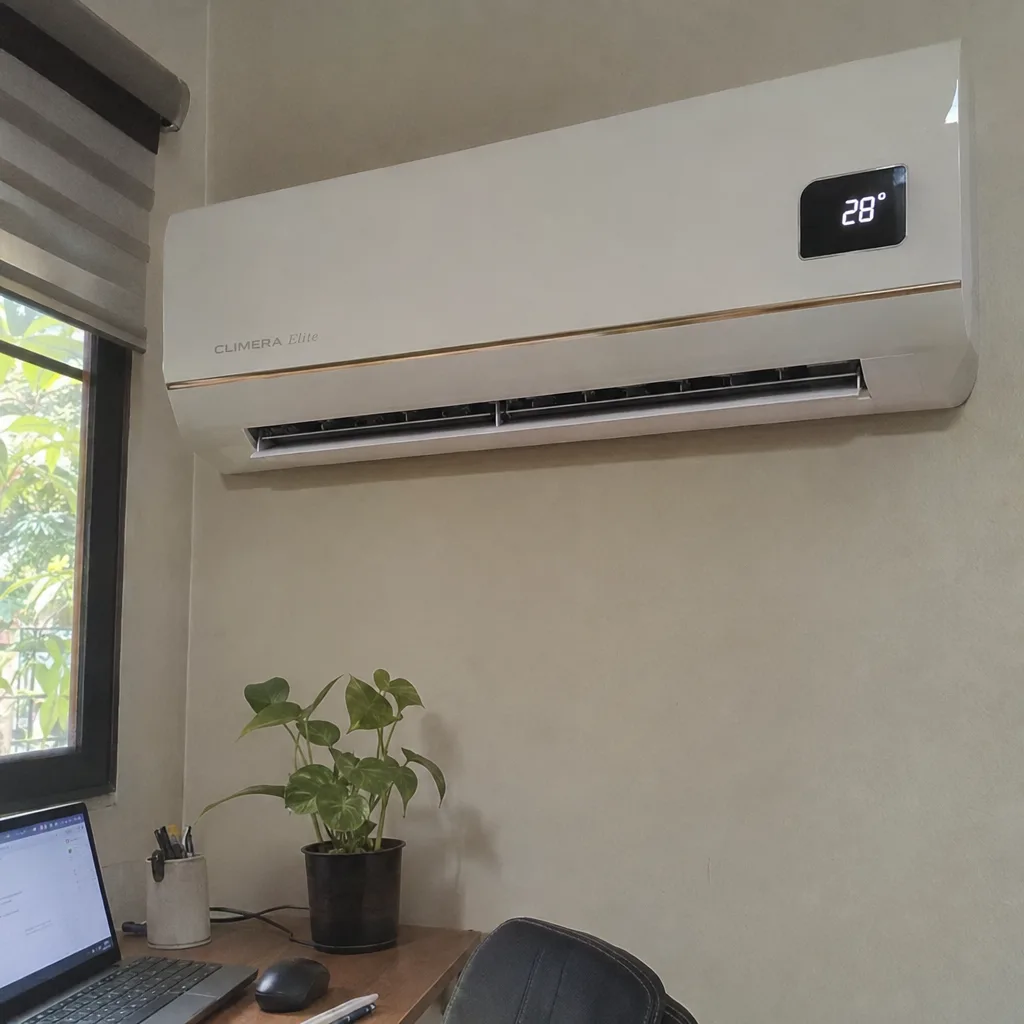
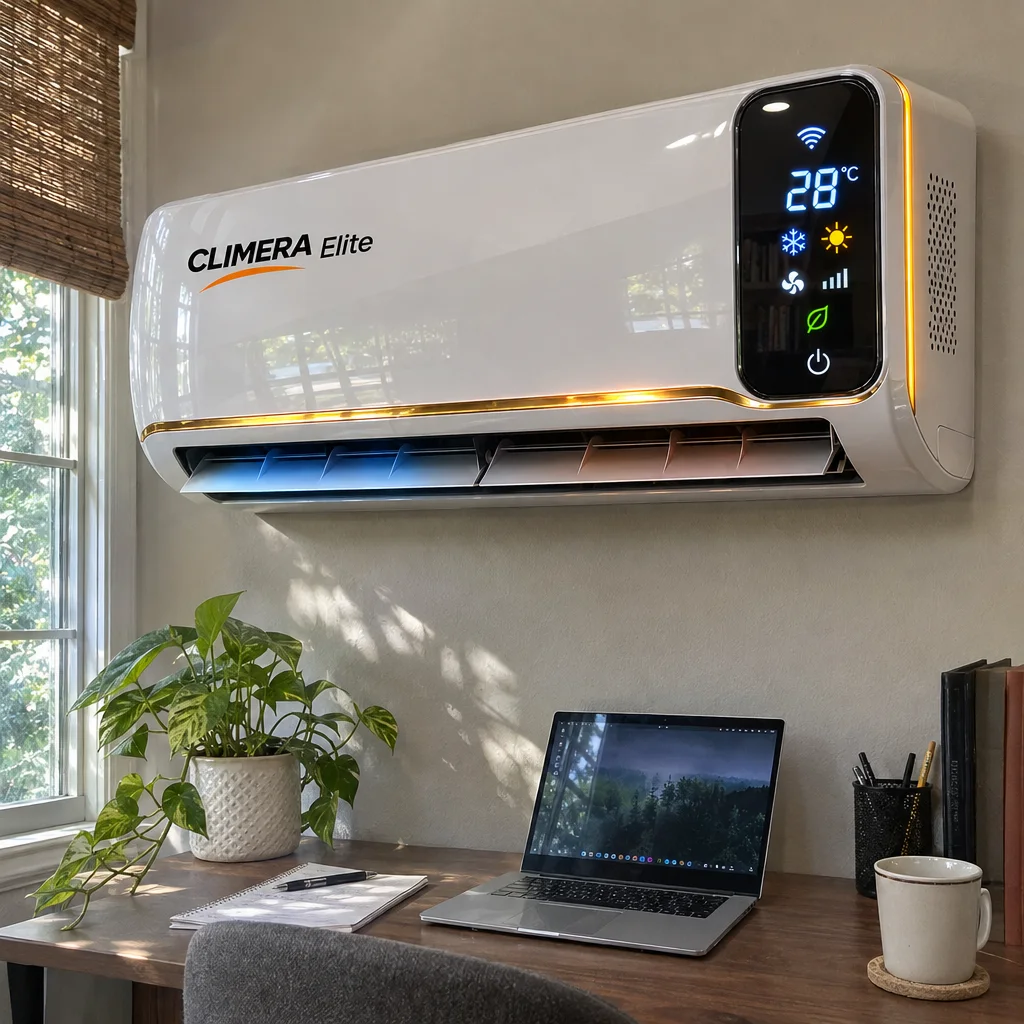
fix(it): recensioni — ripristina CSS aex-rev (card/grid/foto) + foto UGC fedeli al prodotto
Bug: il blocco CSS .aex-rev era stato tagliato dal clone calorix (nessun design sulle card).
Ripristinato (card/grid/stars/photo + griglia responsive). Foto recensioni rigenerate con
l'hero come reference -> unità identica all'hero (CLIMERA Elite / AirClima X), restando foto
realistiche; temperature 25/26/28 invariate. Cache-bust ?v=3.

diff --git a/it/climera-elite/landing.html b/it/climera-elite/landing.html
@@ -28,7 +28,7 @@
  "@context": "https://schema.org",
  "@type": "Product",
  "name": "CLIMERA Elite",
- "image": "https://devicefindhub.com/assets/img/products/climera-elite/hero.webp?v=2",
+ "image": "https://devicefindhub.com/assets/img/products/climera-elite/hero.webp?v=3",
  "description": "Climatizzatore inverter 18.000 BTU 4-in-1 a parete, senza unità esterna, che riscalda, raffredda, deumidifica e purifica oltre 120 m² in pochi minuti grazie allo scambiatore di calore intelligente.",
  "brand": { "@type": "Brand", "name": "CLIMERA Elite" },
  "offers": {
@@ -82,6 +82,18 @@ window.SITE_CONFIG = {
 .aex-mech__points li{display:flex;gap:14px;align-items:flex-start;font-size:16px;line-height:1.5;color:#333}
 .aex-mech__points .ic{flex:0 0 40px;width:40px;height:40px;border-radius:11px;background:#fff;display:flex;align-items:center;justify-content:center;font-size:21px;box-shadow:0 4px 12px -4px rgba(0,0,0,.18)}
 .aex-mech__points b{color:#151515}
+/* recensioni */
+.aex-rev{background:#fff;padding:60px 0}
+.aex-rev__head{text-align:center;max-width:700px;margin:0 auto 34px}
+.aex-rev__head p{color:#667;margin:8px 0 0;font-size:16px}
+.aex-rev__grid{display:grid;grid-template-columns:repeat(3,1fr);gap:22px}
+.aex-rev__card{background:#f8faf9;border:1px solid #e7efe9;border-radius:16px;padding:24px;display:flex;flex-direction:column}
+.aex-rev__stars{color:#f5a623;font-size:18px;letter-spacing:2px;margin:0 0 12px}
+.aex-rev__text{font-size:15.5px;line-height:1.6;color:#333;margin:0 0 18px;flex:1}
+.aex-rev__name{font-weight:700;color:#151515;font-size:15px;display:flex;align-items:center;gap:8px}
+.aex-rev__name .v{background:#007e41;color:#fff;font-size:11px;font-weight:700;padding:3px 9px;border-radius:999px;letter-spacing:.02em}
+.aex-rev__photo{margin:-24px -24px 18px;aspect-ratio:1/1;overflow:hidden;border-radius:16px 16px 0 0;background:#eef2f0}
+.aex-rev__photo img{width:100%;height:100%;object-fit:cover;display:block}
 /* kit */
 .aex-kit{background:#f4faf6;padding:58px 0}
 .aex-kit__head{text-align:center;max-width:700px;margin:0 auto 26px}
@@ -97,6 +109,7 @@ window.SITE_CONFIG = {
 .aex-kit__item .tx em{font-style:normal;color:#007e41;font-weight:700}
 @media (max-width:860px){
   .aex-prob__grid,.aex-mech__grid{grid-template-columns:1fr;gap:24px}
+  .aex-rev__grid{grid-template-columns:1fr;gap:16px}
   .aex-sec-h2{font-size:24px}
   .aex-prob,.aex-mech,.aex-rev,.aex-kit{padding:44px 0}
 }
@@ -110,7 +123,7 @@ window.SITE_CONFIG = {
 <h1>Climatizzatore inverter 18.000 BTU senza unità esterna: riscalda, raffredda, purifica e deumidifica oltre 120 m² <span class="trim-green-highlight">in soli 9 minuti</span></h1>
 <p class="trim-subtitle">Con lo <strong>scambiatore di calore intelligente</strong> di CLIMERA Elite risparmi <strong>oltre l'82%</strong> rispetto alle stufette elettriche e ai condizionatori tradizionali. Nessuna installazione: basta collegarlo alla presa, la <strong>staffa a muro è inclusa</strong>, e lo comandi con il <strong>telecomando o dall'app</strong> sullo smartphone.</p>
 <div class="trim-hero__image mobile-only">
-<img alt="CLIMERA Elite — climatizzatore inverter 4-in-1 a parete che scalda e raffredda" decoding="async" fetchpriority="high" height="1000" src="/assets/img/products/climera-elite/hero.webp?v=2" width="1000"/>
+<img alt="CLIMERA Elite — climatizzatore inverter 4-in-1 a parete che scalda e raffredda" decoding="async" fetchpriority="high" height="1000" src="/assets/img/products/climera-elite/hero.webp?v=3" width="1000"/>
 </div>
 <div class="c4x-price-box">
 <div class="c4x-price-top">
@@ -131,7 +144,7 @@ window.SITE_CONFIG = {
 <a class="trim-cta" href="#FORM">ORDINA ORA</a>
 </div>
 <div class="trim-hero__image desktop-only">
-<img alt="CLIMERA Elite — climatizzatore inverter 4-in-1 a parete che scalda e raffredda" decoding="async" fetchpriority="high" height="1000" src="/assets/img/products/climera-elite/hero.webp?v=2" width="1000"/>
+<img alt="CLIMERA Elite — climatizzatore inverter 4-in-1 a parete che scalda e raffredda" decoding="async" fetchpriority="high" height="1000" src="/assets/img/products/climera-elite/hero.webp?v=3" width="1000"/>
 </div>
 </div>
 </section>
@@ -181,7 +194,7 @@ window.SITE_CONFIG = {
 <h2 class="aex-sec-h2">Fuori gela, dentro aspetti il caldo — e la bolletta intanto sale?</h2>
 <div class="aex-prob__grid">
 <div class="aex-prob__img">
-<img alt="Casa fredda d'inverno con una vecchia stufa elettrica" decoding="async" height="1000" loading="lazy" src="/assets/img/products/climera-elite/problema.webp?v=2" width="1000"/>
+<img alt="Casa fredda d'inverno con una vecchia stufa elettrica" decoding="async" height="1000" loading="lazy" src="/assets/img/products/climera-elite/problema.webp?v=3" width="1000"/>
 </div>
 <div class="aex-prob__text"><p>Con il freddo è sempre la stessa scena: la casa non si scalda davvero e il contatore non si ferma mai.</p>
 <ul class="aex-prob__list"><li><span class="x">🧊</span><div>I termosifoni ci mettono un'ora e scaldano solo una stanza: tu resti infreddolito e il gas vola.</div></li><li><span class="x">🚫</span><div>Uno split? Tecnico, unità esterna, muri forati, centinaia di euro e il sì del condominio. In affitto, scordatelo.</div></li><li><span class="x">🔌</span><div>La stufetta elettrica scalda un angolo, divora corrente ed è un rischio con bambini e animali.</div></li></ul>
@@ -199,7 +212,7 @@ window.SITE_CONFIG = {
 </div>
 <div class="aex-mech__grid">
 <div class="aex-mech__img">
-<img alt="CLIMERA Elite a parete: scambiatore di calore intelligente e compressore Inverter a basso consumo" decoding="async" height="1000" loading="lazy" src="/assets/img/products/climera-elite/meccanismo.webp?v=2" width="1000"/>
+<img alt="CLIMERA Elite a parete: scambiatore di calore intelligente e compressore Inverter a basso consumo" decoding="async" height="1000" loading="lazy" src="/assets/img/products/climera-elite/meccanismo.webp?v=3" width="1000"/>
 </div>
 <div class="aex-mech__text">
 <p class="aex-mech__lead">Le vecchie stufe e i condizionatori vanno sempre al massimo e sprecano. CLIMERA Elite usa uno scambiatore di calore intelligente: il compressore Inverter modula la potenza in continuo e trasforma in caldo — o in fresco — solo l'energia che serve davvero nella stanza.</p>
@@ -218,7 +231,7 @@ window.SITE_CONFIG = {
 <div class="t77bn-rows">
 <div class="t77bn-row">
 <div class="t77bn-media">
-<img alt="Caldo e fresco in tutta la casa in 9 minuti" decoding="async" height="400" loading="lazy" src="/assets/img/products/climera-elite/benefit1.webp?v=2" width="400"/>
+<img alt="Caldo e fresco in tutta la casa in 9 minuti" decoding="async" height="400" loading="lazy" src="/assets/img/products/climera-elite/benefit1.webp?v=3" width="400"/>
 </div>
 <div class="t77bn-c">
 <div class="t77bn-ic">🔥</div>
@@ -228,7 +241,7 @@ window.SITE_CONFIG = {
 </div>
 <div class="t77bn-row t77bn-row--rev">
 <div class="t77bn-media">
-<img alt="Lo installi da solo in pochi minuti, anche in affitto" decoding="async" height="600" loading="lazy" src="/assets/img/products/climera-elite/benefit2.webp?v=2" width="600"/>
+<img alt="Lo installi da solo in pochi minuti, anche in affitto" decoding="async" height="600" loading="lazy" src="/assets/img/products/climera-elite/benefit2.webp?v=3" width="600"/>
 </div>
 <div class="t77bn-c">
 <div class="t77bn-ic">🔧</div>
@@ -238,7 +251,7 @@ window.SITE_CONFIG = {
 </div>
 <div class="t77bn-row">
 <div class="t77bn-media">
-<img alt="Un apparecchio per tutto l'anno: scalda, raffredda, deumidifica, purifica" decoding="async" height="400" loading="lazy" src="/assets/img/products/climera-elite/benefit3.webp?v=2" width="400"/>
+<img alt="Un apparecchio per tutto l'anno: scalda, raffredda, deumidifica, purifica" decoding="async" height="400" loading="lazy" src="/assets/img/products/climera-elite/benefit3.webp?v=3" width="400"/>
 </div>
 <div class="t77bn-c">
 <div class="t77bn-ic">🔄</div>
@@ -248,7 +261,7 @@ window.SITE_CONFIG = {
 </div>
 <div class="t77bn-row t77bn-row--rev">
 <div class="t77bn-media">
-<img alt="Aria pulita e asciutta con filtro lavabile" decoding="async" height="400" loading="lazy" src="/assets/img/products/climera-elite/benefit4.webp?v=2" width="400"/>
+<img alt="Aria pulita e asciutta con filtro lavabile" decoding="async" height="400" loading="lazy" src="/assets/img/products/climera-elite/benefit4.webp?v=3" width="400"/>
 </div>
 <div class="t77bn-c">
 <div class="t77bn-ic">🌬</div>
@@ -258,7 +271,7 @@ window.SITE_CONFIG = {
 </div>
 <div class="t77bn-row">
 <div class="t77bn-media">
-<img alt="Lo comandi dal telefono, silenzioso e sicuro" decoding="async" height="600" loading="lazy" src="/assets/img/products/climera-elite/benefit5.webp?v=2" width="600"/>
+<img alt="Lo comandi dal telefono, silenzioso e sicuro" decoding="async" height="600" loading="lazy" src="/assets/img/products/climera-elite/benefit5.webp?v=3" width="600"/>
 </div>
 <div class="t77bn-c">
 <div class="t77bn-ic">📱</div>
@@ -281,19 +294,19 @@ window.SITE_CONFIG = {
 </div>
 <div class="aex-rev__grid">
 <div class="aex-rev__card">
-<div class="aex-rev__photo"><img alt="CLIMERA Elite montato da un cliente, display a 25°" decoding="async" height="1000" loading="lazy" src="/assets/img/reviews/climera-elite/r1.webp?v=2" width="1000"/></div>
+<div class="aex-rev__photo"><img alt="CLIMERA Elite montato da un cliente, display a 25°" decoding="async" height="1000" loading="lazy" src="/assets/img/reviews/climera-elite/r1.webp?v=3" width="1000"/></div>
 <div class="aex-rev__stars">★★★★★</div>
 <p class="aex-rev__text">«L'ho montato da solo in un pomeriggio, senza tecnico e senza unità esterna. Scalda in pochi minuti e lo tengo sui 25°: la bolletta non è cambiata.»</p>
 <div class="aex-rev__name">Luca R. <span class="v">Acquisto verificato</span></div>
 </div>
 <div class="aex-rev__card">
-<div class="aex-rev__photo"><img alt="CLIMERA Elite in salone, display a 26°" decoding="async" height="1000" loading="lazy" src="/assets/img/reviews/climera-elite/r2.webp?v=2" width="1000"/></div>
+<div class="aex-rev__photo"><img alt="CLIMERA Elite in salone, display a 26°" decoding="async" height="1000" loading="lazy" src="/assets/img/reviews/climera-elite/r2.webp?v=3" width="1000"/></div>
 <div class="aex-rev__stars">★★★★★</div>
 <p class="aex-rev__text">«In salone adesso si sta benissimo: 26° comodi d'inverno e fresco d'estate. Un solo apparecchio al posto di stufa e condizionatore, e non ho forato nessun muro.»</p>
 <div class="aex-rev__name">Marco T. <span class="v">Acquisto verificato</span></div>
 </div>
 <div class="aex-rev__card">
-<div class="aex-rev__photo"><img alt="CLIMERA Elite nello studio, display a 28°" decoding="async" height="1000" loading="lazy" src="/assets/img/reviews/climera-elite/r3.webp?v=2" width="1000"/></div>
+<div class="aex-rev__photo"><img alt="CLIMERA Elite nello studio, display a 28°" decoding="async" height="1000" loading="lazy" src="/assets/img/reviews/climera-elite/r3.webp?v=3" width="1000"/></div>
 <div class="aex-rev__stars">★★★★★</div>
 <p class="aex-rev__text">«Nello studio lo imposto sui 28° quando lavoro: silenzioso e lo gestisco tutto dall'app. Vivo in affitto e l'ho installato senza problemi.»</p>
 <div class="aex-rev__name">Elena P. <span class="v">Acquisto verificato</span></div>
@@ -310,7 +323,7 @@ window.SITE_CONFIG = {
 <p>2 anni di garanzia + reso gratuito entro 30 giorni</p>
 </div>
 <div class="aex-kit__hero">
-<img alt="Il kit completo CLIMERA Elite nel tuo pacco" decoding="async" height="1000" loading="lazy" src="/assets/img/products/climera-elite/hero.webp?v=2" width="1000"/>
+<img alt="Il kit completo CLIMERA Elite nel tuo pacco" decoding="async" height="1000" loading="lazy" src="/assets/img/products/climera-elite/hero.webp?v=3" width="1000"/>
 </div>
 <div class="aex-kit__list"><div class="aex-kit__item"><span class="ic">🔥</span><div class="tx"><strong>1 CLIMERA Elite 4-in-1</strong><span>Il climatizzatore inverter 18.000 BTU a parete che scalda, raffredda, deumidifica e purifica, fino a oltre 120 m².</span></div></div><div class="aex-kit__item"><span class="ic">🔩</span><div class="tx"><strong>Staffa di montaggio a parete (INCLUSA <em>GRATIS</em>)</strong><span>Tutto il necessario per appenderlo da solo in pochi minuti, senza tecnico e senza rovinare la parete.</span></div></div><div class="aex-kit__item"><span class="ic">🎛</span><div class="tx"><strong>Telecomando LCD</strong><span>Regoli temperatura, modalità e timer dal divano, con display chiaro e immediato.</span></div></div><div class="aex-kit__item"><span class="ic">🌬</span><div class="tx"><strong>Filtro lavabile</strong><span>Trattiene polvere, acari e pollini; lo sciacqui e lo rimetti, senza ricambi da comprare.</span></div></div><div class="aex-kit__item"><span class="ic">📱</span><div class="tx"><strong>Accesso app e Wi-Fi</strong><span>Accendi e programmi CLIMERA Elite dal telefono, ovunque tu sia: trovi casa già alla temperatura giusta.</span></div></div><div class="aex-kit__item"><span class="ic">🔌</span><div class="tx"><strong>Cavo per presa standard</strong><span>Si collega a una normale presa di corrente: nessun impianto dedicato, nessun elettricista.</span></div></div><div class="aex-kit__item"><span class="ic">📖</span><div class="tx"><strong>Manuale in italiano</strong><span>Istruzioni semplici passo-passo per installarlo e usarlo da subito, senza complicazioni.</span></div></div><div class="aex-kit__item"><span class="ic">🛡</span><div class="tx"><strong>2 anni di garanzia + reso gratuito 30 giorni</strong><span>Lo provi a casa tua senza rischi: se non ti convince, lo restituisci gratis entro 30 giorni.</span></div></div></div>
 <div class="aex-cta-wrap"><a class="t77bn-cta" href="#FORM">ORDINA ORA</a></div>

diff --git a/it/airclima-x/landing.html b/it/airclima-x/landing.html
@@ -28,7 +28,7 @@
  "@context": "https://schema.org",
  "@type": "Product",
  "name": "AirClima X",
- "image": "https://devicefindhub.com/assets/img/products/airclima-x/hero.webp?v=2",
+ "image": "https://devicefindhub.com/assets/img/products/airclima-x/hero.webp?v=3",
  "description": "Climatizzatore inverter 18.000 BTU 4-in-1 a parete, senza unità esterna, che riscalda, raffredda, deumidifica e purifica oltre 120 m² in pochi minuti grazie allo scambiatore di calore intelligente.",
  "brand": { "@type": "Brand", "name": "AirClima X" },
  "offers": {
@@ -82,6 +82,18 @@ window.SITE_CONFIG = {
 .aex-mech__points li{display:flex;gap:14px;align-items:flex-start;font-size:16px;line-height:1.5;color:#333}
 .aex-mech__points .ic{flex:0 0 40px;width:40px;height:40px;border-radius:11px;background:#fff;display:flex;align-items:center;justify-content:center;font-size:21px;box-shadow:0 4px 12px -4px rgba(0,0,0,.18)}
 .aex-mech__points b{color:#151515}
+/* recensioni */
+.aex-rev{background:#fff;padding:60px 0}
+.aex-rev__head{text-align:center;max-width:700px;margin:0 auto 34px}
+.aex-rev__head p{color:#667;margin:8px 0 0;font-size:16px}
+.aex-rev__grid{display:grid;grid-template-columns:repeat(3,1fr);gap:22px}
+.aex-rev__card{background:#f8faf9;border:1px solid #e7efe9;border-radius:16px;padding:24px;display:flex;flex-direction:column}
+.aex-rev__stars{color:#f5a623;font-size:18px;letter-spacing:2px;margin:0 0 12px}
+.aex-rev__text{font-size:15.5px;line-height:1.6;color:#333;margin:0 0 18px;flex:1}
+.aex-rev__name{font-weight:700;color:#151515;font-size:15px;display:flex;align-items:center;gap:8px}
+.aex-rev__name .v{background:#007e41;color:#fff;font-size:11px;font-weight:700;padding:3px 9px;border-radius:999px;letter-spacing:.02em}
+.aex-rev__photo{margin:-24px -24px 18px;aspect-ratio:1/1;overflow:hidden;border-radius:16px 16px 0 0;background:#eef2f0}
+.aex-rev__photo img{width:100%;height:100%;object-fit:cover;display:block}
 /* kit */
 .aex-kit{background:#f4faf6;padding:58px 0}
 .aex-kit__head{text-align:center;max-width:700px;margin:0 auto 26px}
@@ -97,6 +109,7 @@ window.SITE_CONFIG = {
 .aex-kit__item .tx em{font-style:normal;color:#007e41;font-weight:700}
 @media (max-width:860px){
   .aex-prob__grid,.aex-mech__grid{grid-template-columns:1fr;gap:24px}
+  .aex-rev__grid{grid-template-columns:1fr;gap:16px}
   .aex-sec-h2{font-size:24px}
   .aex-prob,.aex-mech,.aex-rev,.aex-kit{padding:44px 0}
 }
@@ -110,7 +123,7 @@ window.SITE_CONFIG = {
 <h1>Climatizzatore inverter 18.000 BTU senza unità esterna: riscalda, raffredda, purifica e deumidifica oltre 120 m² <span class="trim-green-highlight">in soli 9 minuti</span></h1>
 <p class="trim-subtitle">Con lo <strong>scambiatore di calore intelligente</strong> di AirClima X risparmi <strong>oltre l'82%</strong> rispetto alle stufette elettriche e ai condizionatori tradizionali. Nessuna installazione: basta collegarlo alla presa, la <strong>staffa a muro è inclusa</strong>, e lo comandi con il <strong>telecomando o dall'app</strong> sullo smartphone.</p>
 <div class="trim-hero__image mobile-only">
-<img alt="AirClima X — climatizzatore inverter 4-in-1 a parete che scalda e raffredda" decoding="async" fetchpriority="high" height="1000" src="/assets/img/products/airclima-x/hero.webp?v=2" width="1000"/>
+<img alt="AirClima X — climatizzatore inverter 4-in-1 a parete che scalda e raffredda" decoding="async" fetchpriority="high" height="1000" src="/assets/img/products/airclima-x/hero.webp?v=3" width="1000"/>
 </div>
 <div class="c4x-price-box">
 <div class="c4x-price-top">
@@ -131,7 +144,7 @@ window.SITE_CONFIG = {
 <a class="trim-cta" href="#FORM">ORDINA ORA</a>
 </div>
 <div class="trim-hero__image desktop-only">
-<img alt="AirClima X — climatizzatore inverter 4-in-1 a parete che scalda e raffredda" decoding="async" fetchpriority="high" height="1000" src="/assets/img/products/airclima-x/hero.webp?v=2" width="1000"/>
+<img alt="AirClima X — climatizzatore inverter 4-in-1 a parete che scalda e raffredda" decoding="async" fetchpriority="high" height="1000" src="/assets/img/products/airclima-x/hero.webp?v=3" width="1000"/>
 </div>
 </div>
 </section>
@@ -181,7 +194,7 @@ window.SITE_CONFIG = {
 <h2 class="aex-sec-h2">Fuori gela, dentro aspetti il caldo — e la bolletta intanto sale?</h2>
 <div class="aex-prob__grid">
 <div class="aex-prob__img">
-<img alt="Casa fredda d'inverno con una vecchia stufa elettrica" decoding="async" height="1000" loading="lazy" src="/assets/img/products/airclima-x/problema.webp?v=2" width="1000"/>
+<img alt="Casa fredda d'inverno con una vecchia stufa elettrica" decoding="async" height="1000" loading="lazy" src="/assets/img/products/airclima-x/problema.webp?v=3" width="1000"/>
 </div>
 <div class="aex-prob__text"><p>Con il freddo è sempre la stessa scena: la casa non si scalda davvero e il contatore non si ferma mai.</p>
 <ul class="aex-prob__list"><li><span class="x">🧊</span><div>I termosifoni ci mettono un'ora e scaldano solo una stanza: tu resti infreddolito e il gas vola.</div></li><li><span class="x">🚫</span><div>Uno split? Tecnico, unità esterna, muri forati, centinaia di euro e il sì del condominio. In affitto, scordatelo.</div></li><li><span class="x">🔌</span><div>La stufetta elettrica scalda un angolo, divora corrente ed è un rischio con bambini e animali.</div></li></ul>
@@ -199,7 +212,7 @@ window.SITE_CONFIG = {
 </div>
 <div class="aex-mech__grid">
 <div class="aex-mech__img">
-<img alt="AirClima X a parete: scambiatore di calore intelligente e compressore Inverter a basso consumo" decoding="async" height="1000" loading="lazy" src="/assets/img/products/airclima-x/meccanismo.webp?v=2" width="1000"/>
+<img alt="AirClima X a parete: scambiatore di calore intelligente e compressore Inverter a basso consumo" decoding="async" height="1000" loading="lazy" src="/assets/img/products/airclima-x/meccanismo.webp?v=3" width="1000"/>
 </div>
 <div class="aex-mech__text">
 <p class="aex-mech__lead">Le vecchie stufe e i condizionatori vanno sempre al massimo e sprecano. AirClima X usa uno scambiatore di calore intelligente: il compressore Inverter modula la potenza in continuo e trasforma in caldo — o in fresco — solo l'energia che serve davvero nella stanza.</p>
@@ -218,7 +231,7 @@ window.SITE_CONFIG = {
 <div class="t77bn-rows">
 <div class="t77bn-row">
 <div class="t77bn-media">
-<img alt="Caldo e fresco in tutta la casa in 9 minuti" decoding="async" height="400" loading="lazy" src="/assets/img/products/airclima-x/benefit1.webp?v=2" width="400"/>
+<img alt="Caldo e fresco in tutta la casa in 9 minuti" decoding="async" height="400" loading="lazy" src="/assets/img/products/airclima-x/benefit1.webp?v=3" width="400"/>
 </div>
 <div class="t77bn-c">
 <div class="t77bn-ic">🔥</div>
@@ -228,7 +241,7 @@ window.SITE_CONFIG = {
 </div>
 <div class="t77bn-row t77bn-row--rev">
 <div class="t77bn-media">
-<img alt="Lo installi da solo in pochi minuti, anche in affitto" decoding="async" height="600" loading="lazy" src="/assets/img/products/airclima-x/benefit2.webp?v=2" width="600"/>
+<img alt="Lo installi da solo in pochi minuti, anche in affitto" decoding="async" height="600" loading="lazy" src="/assets/img/products/airclima-x/benefit2.webp?v=3" width="600"/>
 </div>
 <div class="t77bn-c">
 <div class="t77bn-ic">🔧</div>
@@ -238,7 +251,7 @@ window.SITE_CONFIG = {
 </div>
 <div class="t77bn-row">
 <div class="t77bn-media">
-<img alt="Un apparecchio per tutto l'anno: scalda, raffredda, deumidifica, purifica" decoding="async" height="400" loading="lazy" src="/assets/img/products/airclima-x/benefit3.webp?v=2" width="400"/>
+<img alt="Un apparecchio per tutto l'anno: scalda, raffredda, deumidifica, purifica" decoding="async" height="400" loading="lazy" src="/assets/img/products/airclima-x/benefit3.webp?v=3" width="400"/>
 </div>
 <div class="t77bn-c">
 <div class="t77bn-ic">🔄</div>
@@ -248,7 +261,7 @@ window.SITE_CONFIG = {
 </div>
 <div class="t77bn-row t77bn-row--rev">
 <div class="t77bn-media">
-<img alt="Aria pulita e asciutta con filtro lavabile" decoding="async" height="400" loading="lazy" src="/assets/img/products/airclima-x/benefit4.webp?v=2" width="400"/>
+<img alt="Aria pulita e asciutta con filtro lavabile" decoding="async" height="400" loading="lazy" src="/assets/img/products/airclima-x/benefit4.webp?v=3" width="400"/>
 </div>
 <div class="t77bn-c">
 <div class="t77bn-ic">🌬</div>
@@ -258,7 +271,7 @@ window.SITE_CONFIG = {
 </div>
 <div class="t77bn-row">
 <div class="t77bn-media">
-<img alt="Lo comandi dal telefono, silenzioso e sicuro" decoding="async" height="600" loading="lazy" src="/assets/img/products/airclima-x/benefit5.webp?v=2" width="600"/>
+<img alt="Lo comandi dal telefono, silenzioso e sicuro" decoding="async" height="600" loading="lazy" src="/assets/img/products/airclima-x/benefit5.webp?v=3" width="600"/>
 </div>
 <div class="t77bn-c">
 <div class="t77bn-ic">📱</div>
@@ -281,19 +294,19 @@ window.SITE_CONFIG = {
 </div>
 <div class="aex-rev__grid">
 <div class="aex-rev__card">
-<div class="aex-rev__photo"><img alt="AirClima X montato da un cliente, display a 25°" decoding="async" height="1000" loading="lazy" src="/assets/img/reviews/airclima-x/r1.webp?v=2" width="1000"/></div>
+<div class="aex-rev__photo"><img alt="AirClima X montato da un cliente, display a 25°" decoding="async" height="1000" loading="lazy" src="/assets/img/reviews/airclima-x/r1.webp?v=3" width="1000"/></div>
 <div class="aex-rev__stars">★★★★★</div>
 <p class="aex-rev__text">«L'ho montato da solo in un pomeriggio, senza tecnico e senza unità esterna. Scalda in pochi minuti e lo tengo sui 25°: la bolletta non è cambiata.»</p>
 <div class="aex-rev__name">Luca R. <span class="v">Acquisto verificato</span></div>
 </div>
 <div class="aex-rev__card">
-<div class="aex-rev__photo"><img alt="AirClima X in salone, display a 26°" decoding="async" height="1000" loading="lazy" src="/assets/img/reviews/airclima-x/r2.webp?v=2" width="1000"/></div>
+<div class="aex-rev__photo"><img alt="AirClima X in salone, display a 26°" decoding="async" height="1000" loading="lazy" src="/assets/img/reviews/airclima-x/r2.webp?v=3" width="1000"/></div>
 <div class="aex-rev__stars">★★★★★</div>
 <p class="aex-rev__text">«In salone adesso si sta benissimo: 26° comodi d'inverno e fresco d'estate. Un solo apparecchio al posto di stufa e condizionatore, e non ho forato nessun muro.»</p>
 <div class="aex-rev__name">Marco T. <span class="v">Acquisto verificato</span></div>
 </div>
 <div class="aex-rev__card">
-<div class="aex-rev__photo"><img alt="AirClima X nello studio, display a 28°" decoding="async" height="1000" loading="lazy" src="/assets/img/reviews/airclima-x/r3.webp?v=2" width="1000"/></div>
+<div class="aex-rev__photo"><img alt="AirClima X nello studio, display a 28°" decoding="async" height="1000" loading="lazy" src="/assets/img/reviews/airclima-x/r3.webp?v=3" width="1000"/></div>
 <div class="aex-rev__stars">★★★★★</div>
 <p class="aex-rev__text">«Nello studio lo imposto sui 28° quando lavoro: silenzioso e lo gestisco tutto dall'app. Vivo in affitto e l'ho installato senza problemi.»</p>
 <div class="aex-rev__name">Elena P. <span class="v">Acquisto verificato</span></div>
@@ -310,7 +323,7 @@ window.SITE_CONFIG = {
 <p>2 anni di garanzia + reso gratuito entro 30 giorni</p>
 </div>
 <div class="aex-kit__hero">
-<img alt="Il kit completo AirClima X nel tuo pacco" decoding="async" height="1000" loading="lazy" src="/assets/img/products/airclima-x/hero.webp?v=2" width="1000"/>
+<img alt="Il kit completo AirClima X nel tuo pacco" decoding="async" height="1000" loading="lazy" src="/assets/img/products/airclima-x/hero.webp?v=3" width="1000"/>
 </div>
 <div class="aex-kit__list"><div class="aex-kit__item"><span class="ic">🔥</span><div class="tx"><strong>1 AirClima X 4-in-1</strong><span>Il climatizzatore inverter 18.000 BTU a parete che scalda, raffredda, deumidifica e purifica, fino a oltre 120 m².</span></div></div><div class="aex-kit__item"><span class="ic">🔩</span><div class="tx"><strong>Staffa di montaggio a parete (INCLUSA <em>GRATIS</em>)</strong><span>Tutto il necessario per appenderlo da solo in pochi minuti, senza tecnico e senza rovinare la parete.</span></div></div><div class="aex-kit__item"><span class="ic">🎛</span><div class="tx"><strong>Telecomando LCD</strong><span>Regoli temperatura, modalità e timer dal divano, con display chiaro e immediato.</span></div></div><div class="aex-kit__item"><span class="ic">🌬</span><div class="tx"><strong>Filtro lavabile</strong><span>Trattiene polvere, acari e pollini; lo sciacqui e lo rimetti, senza ricambi da comprare.</span></div></div><div class="aex-kit__item"><span class="ic">📱</span><div class="tx"><strong>Accesso app e Wi-Fi</strong><span>Accendi e programmi AirClima X dal telefono, ovunque tu sia: trovi casa già alla temperatura giusta.</span></div></div><div class="aex-kit__item"><span class="ic">🔌</span><div class="tx"><strong>Cavo per presa standard</strong><span>Si collega a una normale presa di corrente: nessun impianto dedicato, nessun elettricista.</span></div></div><div class="aex-kit__item"><span class="ic">📖</span><div class="tx"><strong>Manuale in italiano</strong><span>Istruzioni semplici passo-passo per installarlo e usarlo da subito, senza complicazioni.</span></div></div><div class="aex-kit__item"><span class="ic">🛡</span><div class="tx"><strong>2 anni di garanzia + reso gratuito 30 giorni</strong><span>Lo provi a casa tua senza rischi: se non ti convince, lo restituisci gratis entro 30 giorni.</span></div></div></div>
 <div class="aex-cta-wrap"><a class="t77bn-cta" href="#FORM">ORDINA ORA</a></div>
